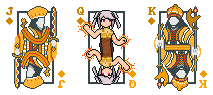
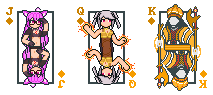
Update for Funkyo Enma

Changed region(s): [[0.0563, 0.0632, 0.2817, 0.9474]]

diff --git a/README.md b/README.md
@@ -3,12 +3,13 @@ Adding spanish speaking Vtuber character face cards to the game.
 
 - [Chrome Cottontail](https://www.twitch.tv/chromevt) as ♠Spades Queen
 - [Sombra 7474](https://www.twitch.tv/sombra7474) as ♠Spades Jack
-- [SebasContre](https://www.twitch.tv/sebascontre) as ♥Clubs King
+- [SebasContre](https://www.twitch.tv/sebascontre) as ♥Hearts King
 - [Edomancer](https://www.twitch.tv/edomancer) as ♥Hearts Queen
 - [YopAlonso](https://www.twitch.tv/yopalonso) as ♥Hearts Jack
 - [Eclipse Noctis](https://www.twitch.tv/eclipsenoctis) as ♣Clubs King
 - [Zamcito](https://www.twitch.tv/zamcito) as ♣Clubs Jack
 - [Arisa Elizabeth](https://www.twitch.tv/arisaelizabeth) as ♦Diamonds Queen
+- [Funkyo Enma](https://www.twitch.tv/funkyoenma) as ♦Diamonds Jack
 
 All the art is made by [HiyokoSupiritto](https://x.com/Hiyoko991).
 
